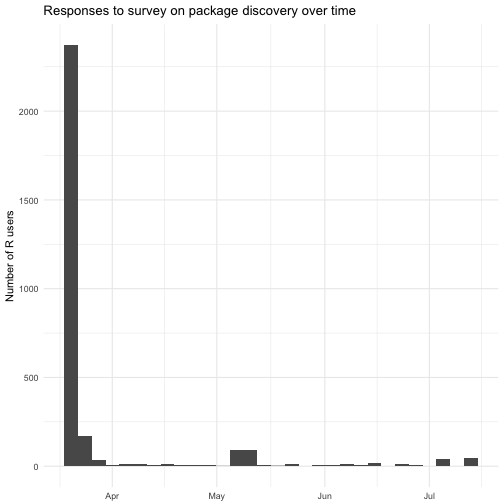
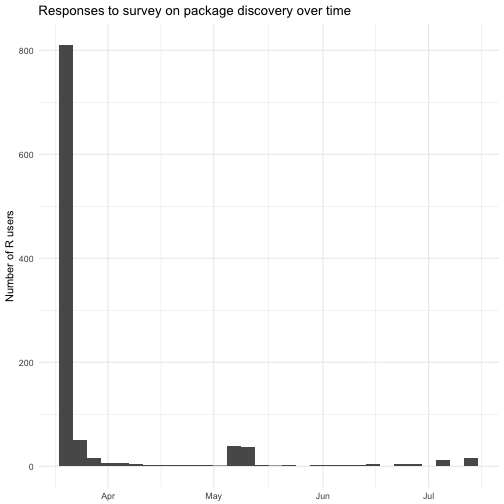
Oops only count each person once

diff --git a/README.md b/README.md
@@ -66,6 +66,7 @@ You might also be interested in when R users responded to the survey.
 
 ```r
 package_survey %>%
+    distinct(respondent, .keep_all = TRUE) %>%
     ggplot(aes(response_time)) +
     geom_histogram() +
     labs(x = NULL,
